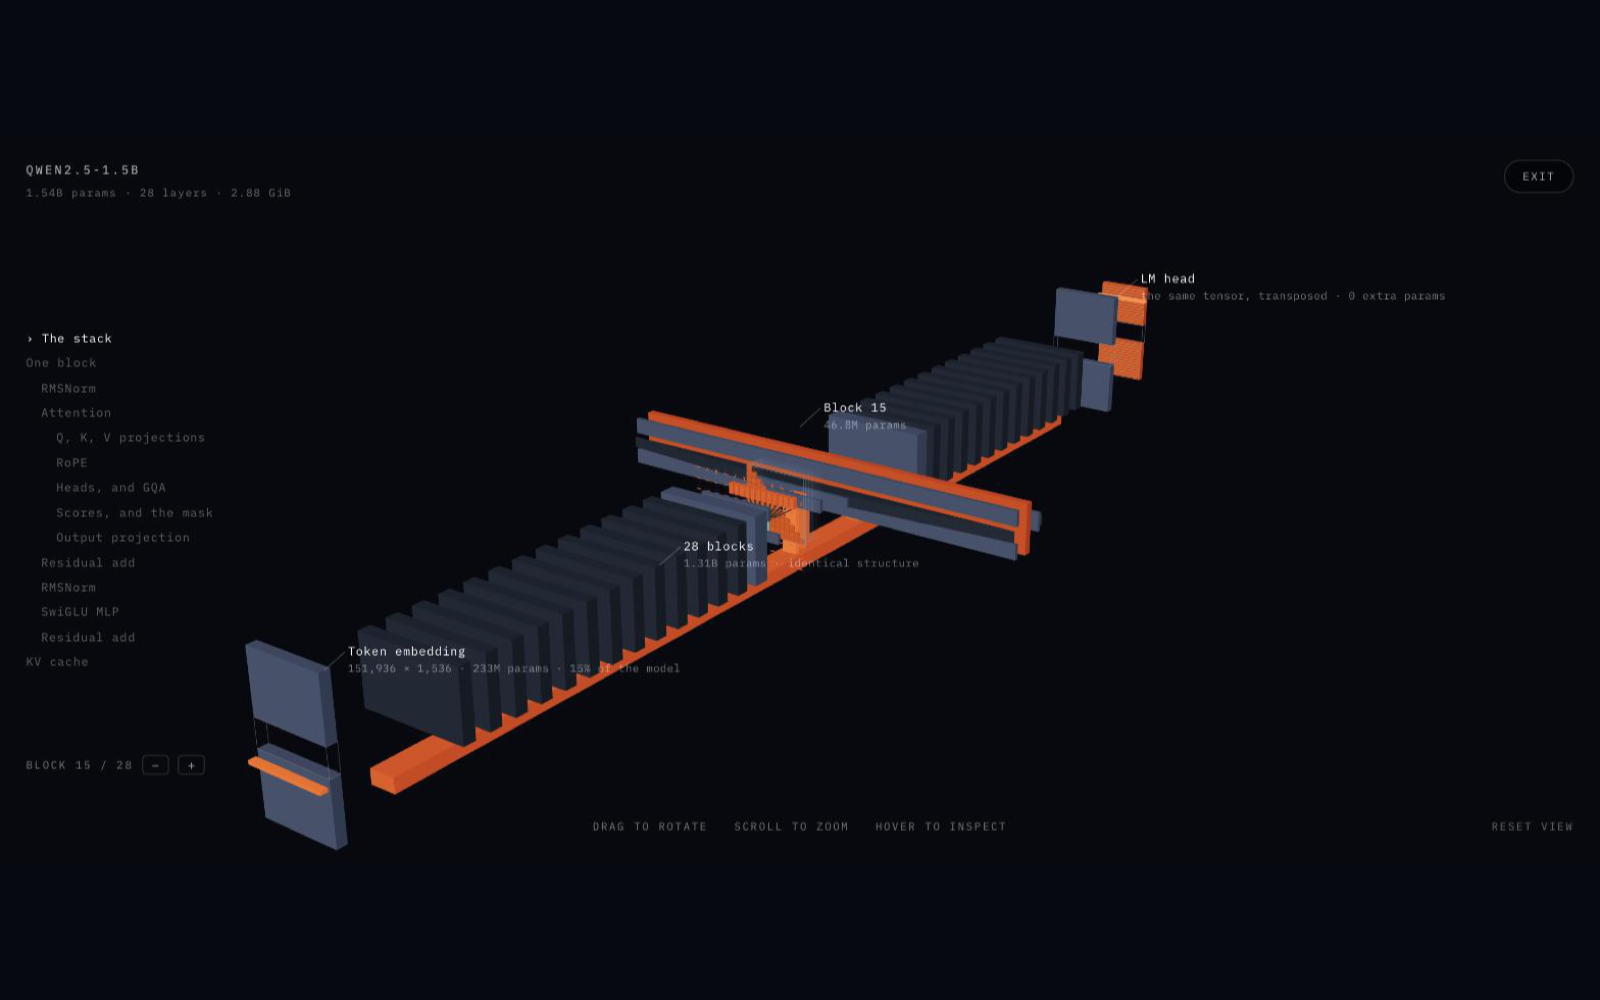
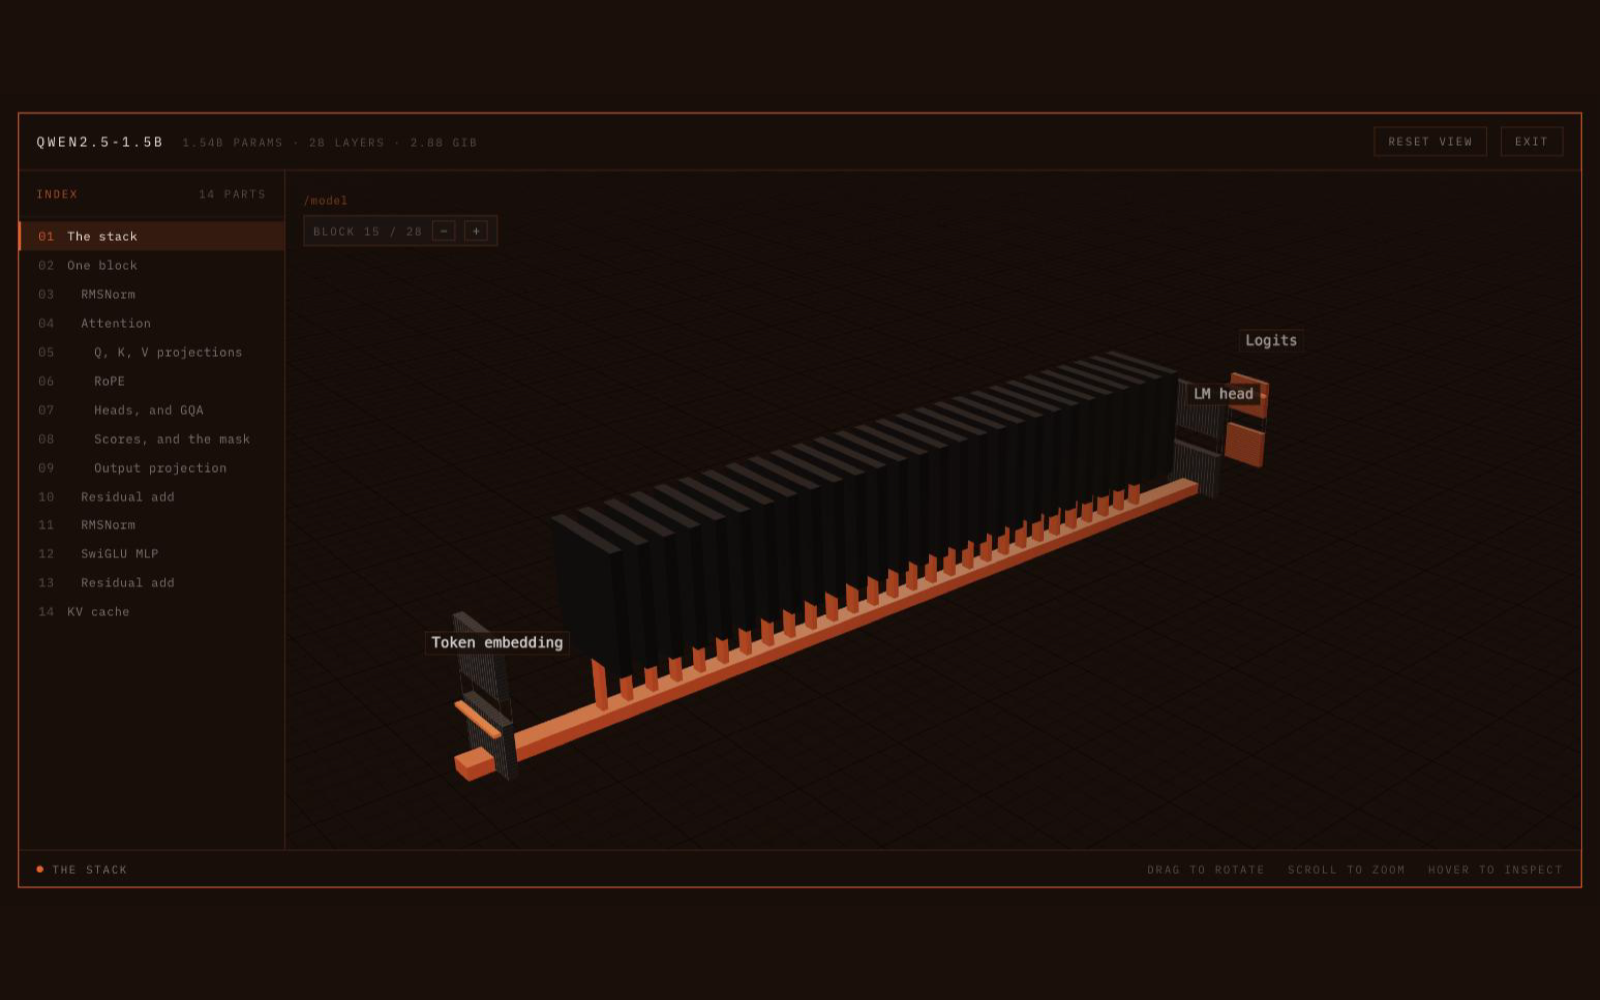
transformer: perspective-correct framing, new poster, docs
The fit was orthographic, and the subjects are not flat
  screenHalfExtents is a support function: it measures a shadow, exact only for
  a flat subject facing the camera. The stack is 43 units deep at a distance
  around 60, so its near end sits a third closer than its centre and projects a
  third larger. The embedding wall sat off the left edge of a frame the
  arithmetic called 82% full.

  Solving the angular size at the near face rather than the centre gives it in
  closed form: the orthographic answer plus the subject's half depth along the
  view direction.

  The fit also re-runs on resize now. Aspect ratio is half of what decides the
  distance, so without it a fit is correct only for the window size you happened
  to have when you last picked something, and narrowing the window cropped the
  subject instead of backing off from it.

Removed the RoPE station label
  The index, the breadcrumb, the card and the status bar all already said it.
  It was also placed outside the grid's bounding box, which the camera fits, so
  it was clipped by the top of the frame as well as redundant.

Dropped emphasisFor
  Added as scaffolding for a dim-rather-than-hide pass that is not built. Dead
  code carrying a long comment about a mechanism that does not exist is worse
  than no code.

Poster re-shot against the new look, and CLAUDE.md brought up to date: the area
rule and its three departures, the six-face grid and its two traps, measured
[…]

diff --git a/src/lib/transformer/glossary.ts b/src/lib/transformer/glossary.ts
@@ -193,48 +193,3 @@ export function visibleUnder(focus: string | null, path: string): boolean {
 function isPrefix(a: string, b: string): boolean {
   return a === b || b.startsWith(`${a}.`);
 }
-
-/**
- * How prominently a thing is drawn, given the current focus.
- *
- * Three states rather than `visibleUnder`'s two, because the instrument-panel
- * register wants context to DIM rather than vanish, and because dimming turns
- * out to be the wrong tool for some of what `visibleUnder` currently hides.
- *
- * The distinction is whether a thing is IN THE WAY or merely elsewhere:
- *
- *   subject   the focus, its ancestors and its descendants. Full brightness.
- *   context   things outside the focused subtree that the camera is not looking
- *             through: other blocks, the ground, the ends of the model. Dimmed,
- *             and clipped upstream of the subject so they read as a section
- *             rather than as objects that faded out.
- *   hidden    siblings sitting directly between the camera and the subject.
- *
- * WHY `context` CANNOT SIMPLY BE OPACITY. At the `block.attn.qkv` pose the
- * camera sits at z ~10.45 looking down -Z, and five block plates sit between it
- * and the subject at z 5.25, 6.35, 7.45, 8.55 and 9.65. Five layers at 35%
- * opacity give 1 - 0.65^5 = 88% coverage, so the subject is behind a wall
- * whatever the alpha. The clipping plane in the render layer is what makes
- * `context` workable; this function only decides who gets it.
- *
- * `visibleUnder` is deliberately left alone. `block.tsx` gates its stream taps
- * on a boolean and is correct as it stands.
- */
-export type Emphasis = "subject" | "context" | "hidden";
-
-export function emphasisFor(focus: string | null, path: string): Emphasis {
-  if (focus === null || focus === OVERVIEW_ID) return "subject";
-  if (isPrefix(focus, path) || isPrefix(path, focus)) return "subject";
-  // A sibling INSIDE the focused block shares the block's Z line, so it is the
-  // thing the camera has to look through. Everything else is elsewhere.
-  return sharesLine(focus, path) ? "hidden" : "context";
-}
-
-/** True when two paths sit on the same run of stations, i.e. they share a
- *  parent. Those are the ones that occlude; a different block or the embedding
- *  wall does not. */
-function sharesLine(a: string, b: string): boolean {
-  const parent = (p: string) => p.slice(0, p.lastIndexOf("."));
-  const pa = parent(a);
-  return pa !== "" && pa === parent(b);
-}

diff --git a/src/lib/transformer/camera.ts b/src/lib/transformer/camera.ts
@@ -90,7 +90,7 @@ export function screenHalfExtents(
   sz: number,
   theta: number,
   phi: number
-): { halfW: number; halfH: number } {
+): { halfW: number; halfH: number; halfDepth: number } {
   const ct = Math.cos(theta);
   const st = Math.sin(theta);
   const cp = Math.cos(phi);
@@ -101,7 +101,14 @@ export function screenHalfExtents(
     0.5 *
     (sx * Math.abs(st * cp) + sy * Math.abs(sp) + sz * Math.abs(ct * cp));
 
-  return { halfW, halfH };
+  // Extent along the VIEW direction, which is what perspective needs. See
+  // `distanceFor`: the two above are orthographic, and a subject 43 units deep
+  // does not obey them.
+  const halfDepth =
+    0.5 *
+    (sx * Math.abs(sp * st) + sy * Math.abs(cp) + sz * Math.abs(sp * ct));
+
+  return { halfW, halfH, halfDepth };
 }
 
 /**
@@ -127,6 +134,7 @@ export function screenHalfExtents(
 export function distanceFor(
   halfW: number,
   halfH: number,
+  halfDepth: number,
   aspect: number,
   fov: number,
   fill: number
@@ -135,7 +143,21 @@ export function distanceFor(
   // A horizontal half extent has to be divided by the aspect ratio before it
   // can be compared against the same vertical half angle.
   const need = Math.max(halfH, halfW / Math.max(aspect, 0.0001));
-  return clamp(need / Math.tan(halfFov) / fill, DISTANCE_MIN, DISTANCE_MAX);
+
+  // PERSPECTIVE, NOT ORTHOGRAPHIC. `screenHalfExtents` is a support function,
+  // which measures a shadow rather than a projection: it is exact only for a
+  // flat subject facing the camera. This scene's subjects are not flat. The
+  // whole stack is 43 units deep at a distance around 60, so its near end sits
+  // a third closer than its centre and projects a third larger, and a fit that
+  // ignored that put the embedding wall off the left edge of a frame the
+  // arithmetic said was 82% full.
+  //
+  // Solving the angular size at the NEAR face rather than at the centre gives
+  // this in closed form: what the near face subtends is `need / (d - halfDepth)`,
+  // so the distance that makes that equal `fill` of the half angle is the
+  // orthographic answer plus the half depth.
+  const d = need / Math.tan(halfFov) / fill + halfDepth;
+  return clamp(d, DISTANCE_MIN, DISTANCE_MAX);
 }
 
 /** How fast `current` chases `desired`, in e-folds per second. Higher is

diff --git a/src/components/transformer/auto-frame.tsx b/src/components/transformer/auto-frame.tsx
@@ -55,6 +55,7 @@ export function AutoFrame() {
 
   const pending = useRef(true);
   const seenRefit = useRef(view.refit);
+  const seenSize = useRef<[number, number]>([0, 0]);
   const box = useMemo(() => new THREE.Box3(), []);
   const item = useMemo(() => new THREE.Box3(), []);
   const size = useMemo(() => new THREE.Vector3(), []);
@@ -70,6 +71,16 @@ export function AutoFrame() {
       seenRefit.current = view.refit;
       pending.current = true;
     }
+
+    // A resize changes the aspect ratio, and the aspect ratio is half of what
+    // decides the distance. Without this the fit is correct only for the size
+    // the window happened to be when you last picked something, and narrowing
+    // the window silently crops the subject rather than backing off from it.
+    if (view.width !== seenSize.current[0] || view.height !== seenSize.current[1]) {
+      seenSize.current = [view.width, view.height];
+      pending.current = true;
+    }
+
     if (!pending.current) return;
     // The overlay writes `view.width/height` from the canvas each frame; before
     // the first one there is no aspect ratio to fit against.
@@ -109,11 +120,17 @@ export function AutoFrame() {
 
     const { theta, phi, fov, fill } = entry.view;
     const aspect = view.width / view.height;
-    const { halfW, halfH } = screenHalfExtents(size.x, size.y, size.z, theta, phi);
+    const { halfW, halfH, halfDepth } = screenHalfExtents(
+      size.x,
+      size.y,
+      size.z,
+      theta,
+      phi
+    );
 
     view.desired = {
       target: [centre.x, centre.y, centre.z],
-      distance: distanceFor(halfW, halfH, aspect, fov, fill),
+      distance: distanceFor(halfW, halfH, halfDepth, aspect, fov, fill),
       theta,
       phi,
       fov,

diff --git a/src/components/transformer/rope.tsx b/src/components/transformer/rope.tsx
@@ -140,12 +140,11 @@ export function Rope() {
         sub={`period ${formatInt(Math.round(2 * Math.PI / inverseFreq(SAMPLED[PAIRS - 1])))} tokens`}
         position={[-(COLS / 2) * CELL - 0.3, -((PAIRS - 1) / 2) * CELL, 0]}
       />
-      <Anchor
-        id="rope.head"
-        text="RoPE"
-        sub={`${headDim / 2} dimension pairs · theta ${formatInt(ropeTheta)} · no parameters`}
-        position={[(COLS / 2) * CELL + 0.3, ((PAIRS - 1) / 2) * CELL + 0.5, 0]}
-      />
+      {/* No "RoPE" label here. The index, the breadcrumb, the card and the
+          status bar all already say it, and this was the fourth copy: placed
+          outside the grid's bounding box, which the camera fits, so it was
+          clipped by the top of the frame as well as redundant. The two labels
+          that stay are the ones the picture cannot say by itself. */}
     </group>
   );
 }

diff --git a/CLAUDE.md b/CLAUDE.md
@@ -328,11 +328,28 @@ an sRGB hex string and goes through R3F's colour management. The planet writes
 linear values into vertex colours. Both are internally consistent; mixing them
 is the bug. Never hand-write a linear vertex colour in this scene.
 
-### Width is proportional to the real dimension
+### Area is parameter count
 
-`layout.widthFor` is the only way a tensor dimension becomes world units, which
-is why the MLP is 5.83x the stream on screen and K/V are exactly 1/6 of Q. Two
-documented departures, both deliberate and both commented at the constant:
+Both axes go through one scale: `widthFor` takes a tensor's OUTPUT dimension and
+`heightFor` its INPUT one. Since `area = out * in * WIDTH_SCALE^2` and
+`params = in * out`, **a weight slab's on-screen area is its parameter count**,
+with no tuning. Biases put it 0.07% out; the constant is `3.8147e-6` units per
+parameter.
+
+What that buys, none of it composed: gate and up come out 17.5 wide and down
+17.5 tall, so a matrix and its transpose-shaped inverse are perpendicular
+because they are, and all three have the same area because all three have
+13,762,560 parameters. K and V are a sixth of Q's width and therefore a sixth of
+its area. Every projection is the same height because they all read the same
+1,536 wide stream.
+
+**Which axis is which is not free.** `tensor-slab` maps columns across the face
+and rows up it, and every caller passes `rows = input, cols = output`. Swapping
+them transposes every matrix in the scene AND turns the Q/K/V comparison from a
+width comparison into a height one, which is the reading its camera pose exists
+to make.
+
+Three documented departures, all deliberate and all commented at the constant:
 
 - **`CONDUIT_W`**: the long run of residual stream between blocks is schematic.
   At true section a 40-unit bar has more surface area than everything else
@@ -340,7 +357,15 @@ documented departures, both deliberate and both commented at the constant:
   that matters is local, and the MLP taper still starts at the true width.
 - **The vocabulary axis** is 297 units against a 3 unit stream, so the embedding
   wall is drawn with a VISIBLE break and the true count on the label. A silent
-  squash would make 151,936 rows look like a few dozen.
+  squash would make 151,936 rows look like a few dozen. **Elision breaks area
+  proportionality**, which is why the claim is scoped to weights inside a block:
+  the embedding is 233M parameters drawn at a third the area of a tensor 17x
+  smaller.
+- **`MIN_AXIS`**, the bottom end of the rule and the mirror of `ELIDE_ABOVE`. A
+  [1536] vector's second axis is `heightFor(1)` = 0.002 units, sub-pixel at every
+  distance. Floored slabs are drawn at `MIN_AXIS` **and outlined**, and the card
+  says why. A marked overstatement is honest; the silent 270x one this replaced
+  was not.
 
 ### Isolation is load bearing, not cosmetic
 
@@ -367,20 +392,136 @@ aside, and adds back.
 ### Grids are a shader, cells are not
 
 `grid-material.ts` draws a tensor's cell grid in the fragment shader, so every
-tensor is ONE draw call and stays sharp at any zoom. Two levels are drawn, the
-real grid and one ten times coarser, and **each fades on its own density**. That
+tensor is ONE draw call and stays sharp at any zoom. **Three** levels are drawn,
+each ten times coarser than the last, and **each fades on its own density**. That
 fade is not optional: the line test measures distance in pixels, so once cells go
 sub-pixel it returns a strong value everywhere and dense tensors render
 *brighter*, which reads as a paler object rather than a denser one.
+
+Two levels was not enough. `down_proj` is 8,960 x 1,536 drawn about 75 by 340
+pixels at the overview, so even every tenth row lands at 0.4 of a pixel: both
+levels faded and the largest object in frame rendered as a blank rectangle.
+
+**All six faces are drawn, but only two are the matrix.** The ±Z faces get the
+real 2D grid; the other four are the matrix seen EDGE ON and get 1D lamination
+at the row or column pitch, which is what a stack of sheets looks like from the
+side. Two things there will bite:
+
+- Faces are classified by **local position**, not by normal. `abs(normal.z) > 0.5`
+  works on a plain box and breaks the moment one is bevelled, because a fillet's
+  normal sweeps through the threshold.
+- `gridLevel1` is a separate function from `gridLevel` on purpose. The 2D one
+  takes `min(d.x, d.y)`, so feeding it a dummy second component makes the min
+  zero everywhere and the side faces paint **solid**.
 
 Real per-cell instancing is used in exactly one place, `scores.tsx`, because
 there the cells are the subject: the causal mask is the upper triangle NOT BEING
 THERE, and only geometry can show an absence.
 
+### Framing is measured, never typed
+
+`glossary` carries only the editorial half of a shot: angle, lens, and what
+fraction of the frame to fill. `auto-frame` measures the bounding box of whatever
+is in scope and computes the target and distance from it.
+
+This is not tidiness. All 14 poses used to carry a hand-tuned distance, and the
+moment tensor heights became real every one was wrong at once and in both
+directions: the output projection went from 11% of frame height to 67%, the MLP
+from 16% to **141%**. Re-tuning fourteen literals by eye against geometry that is
+still moving is how a scene ends up with its geometry bent to suit its cameras.
+
+Three things it is easy to get wrong here, all of which happened:
+
+- **Update world matrices before measuring.** `Box3.setFromObject` reads
+  `matrixWorld`, and three computes those at RENDER time, so anything mounted
+  this commit measures one focus stale. It cost the overview 5 units of height
+  while every number involved looked plausible.
+- **All three extents project onto screen height.** `screenHalfExtents` uses the
+  box support function along the camera's up vector. Taking height as
+  `sy * sin(phi)` alone ignores that a 51-unit run along Z rises across the frame
+  as it recedes, which was 17 units of uncounted height and a fit out by 2x.
+- **A support function is orthographic.** It measures a shadow, and is exact only
+  for a flat subject facing the camera. The stack is 43 units deep at a distance
+  around 60, so its near end projects a third larger than its centre; solving the
+  angular size at the near face instead adds `halfDepth` to the distance. Without
+  that the embedding wall sat off the left edge of a frame the arithmetic called
+  82% full.
+- **Exclude what spans the scene**: the ground plane and the long stream conduit
+  carry `userData.noFit`. Measuring the 41-unit stream backed "One block" off to
+  78 units for a block 9 units deep.
+
+### The overview opens nothing
+
+Every block is a plate until you ask for one. With the hero open the model is 20
+units tall against 52 long, which projects to 1.11:1 and **cannot** fill a 2.1:1
+viewport at any angle or distance; closed it projects at 1.91:1. Overview theta
+is 0.85 for the same reason, computed from the frame rather than chosen.
+
+Collapsing every block costs the stream its visible connections, so one instanced
+tap per block puts them back in one draw call. Without them the stream reads as a
+bar lying alongside the stack rather than something all 28 edit, which is exactly
+the misreading the branch geometry exists to prevent.
+
+### One card, and labels at exactly your level
+
+There is no projected-label layer. `Anchor` draws a short name as an in-world
+sprite, which faces the camera for free, is occluded by geometry correctly, and
+cannot drift from what it names. Details live in the DOM info card, driven by
+hover and falling back to focus.
+
+**A label shows only when its scope IS the focus.** `Scope` provides its path
+through context and `Anchor` reads it. The rule tightened twice: "am I zoomed in
+at all" put fifteen labels on the "One block" shot, and "or one level down" fixed
+that but broke "Attention", which has five sub-stations carrying twelve labels
+between them. A group view needs no in-world labels: the index lists what is
+inside it, the card names what the cursor is on, the status bar says where you
+are.
+
+Sprites are excluded from the fit, so **a label placed outside the geometry's
+bounding box is outside the frame**. Labels also get lifted toward the camera by
+their own height, because an anchor sits on the edge of what it names and depth
+testing ate the buried half ("Q projection" rendered as "ection").
+
+### Light, and the palette
+
+The old rig was `ambient 0.85` against a key of `1.5`, putting the darkest face
+of every box at 57% of its lit face. That one ratio was the largest single cause
+of "everything looks blocky": boxes lit that flatly have no readable form, and 28
+identical silhouettes in a row is a grey wall.
+
+**The background is the accent hue at 7% lightness**, not a neutral. That is the
+reference's own recipe, measured off it, and it is why the accent never looks
+pasted on. The first version had a blue-black backdrop (hue 225) under an orange
+accent (hue 19), 154 degrees apart.
+
+Weights sit near the background value and read by **silhouette and rim light**
+rather than by being a competing colour, so the rim light in `scene.tsx` is load
+bearing: remove it and the palette has to move with it.
+
+**Fog is ranged off the camera's distance**, not in world units. The camera
+stands 5 units from a projection and 114 from the whole stack, so any absolute
+far plane either erases the overview (105 did) or does nothing close up.
+
+Changing exposure means re-tuning emissives. Six materials are
+`toneMapped={false}` and will not follow it.
+
+### No postprocessing, and no drei in this chunk
+
+Both deliberate.
+
+`EffectComposer` would break `__transformerRender`, which calls `gl.render`
+directly and is the only way to measure anything in a backgrounded tab. And
+**bloom is disallowed by this piece's own rule**: it spreads emissive energy onto
+neighbouring geometry, painting values where there are none, and re-creates the
+exact density-fade failure `grid-material` exists to prevent.
+
+The transformer chunk imports **zero** drei; only `planet/*` does. The ground
+grid is hand-rolled off the same `fwidth` trick `grid-material` already uses.
+
 ### Budget
 
-52 draw calls in the worst view (the overview), 10,644 triangles. Every isolated
-station is under 25.
+41 draw calls in the worst view (one open block), 10,190 triangles. The overview
+is 18. Every isolated station is under 25.
 
 ### Dev hooks
 
@@ -391,11 +532,31 @@ station is under 25.
 | `window.__transformerPose(patch, snap = true)` | Nudge the camera; `snap` writes `current` too |
 | `window.__transformerLayer(n)` | Move the hero block |
 | `window.__transformerRender()` | Force one frame synchronously, return its cost |
+| `window.__transformerTick(n)` | Advance the R3F loop n frames, running every `useFrame` |
+| `window.__transformerFit(fill)` | Frame what is in scope, from its measured bbox |
+| `window.__transformerView` | The live `view` singleton |
 
 `__transformerRender` exists because a backgrounded tab never fires
 `requestAnimationFrame`, and **awaiting rAF there hangs the renderer for 45
 seconds**. Without it, measuring a draw-call budget costs one screenshot per
 view. Same trap the planet's testing note warns about.
+
+**`__transformerRender` does NOT run `useFrame`.** It calls `gl.render` directly,
+which is what makes it side-effect free, and that became a trap once `auto-frame`
+started measuring the scene in a `useFrame`: the camera would never move and
+every measurement was of a pose that had not been applied. `__transformerTick`
+is the one that advances the loop. The working sequence for checking a view in a
+backgrounded tab is:
+
+```
+click the index entry
+await ~100ms                      // let React commit the new scope tree
+__transformerTick(3)              // auto-frame measures, writes view.desired
+__transformerPose({}, true)       // snap current to desired; no waiting on the chase
+__transformerTick(2)              // let DepthCue pick up the new distance
+__transformerRender()             // read the cost
+screenshot
+```
 
 ### The capture
 
